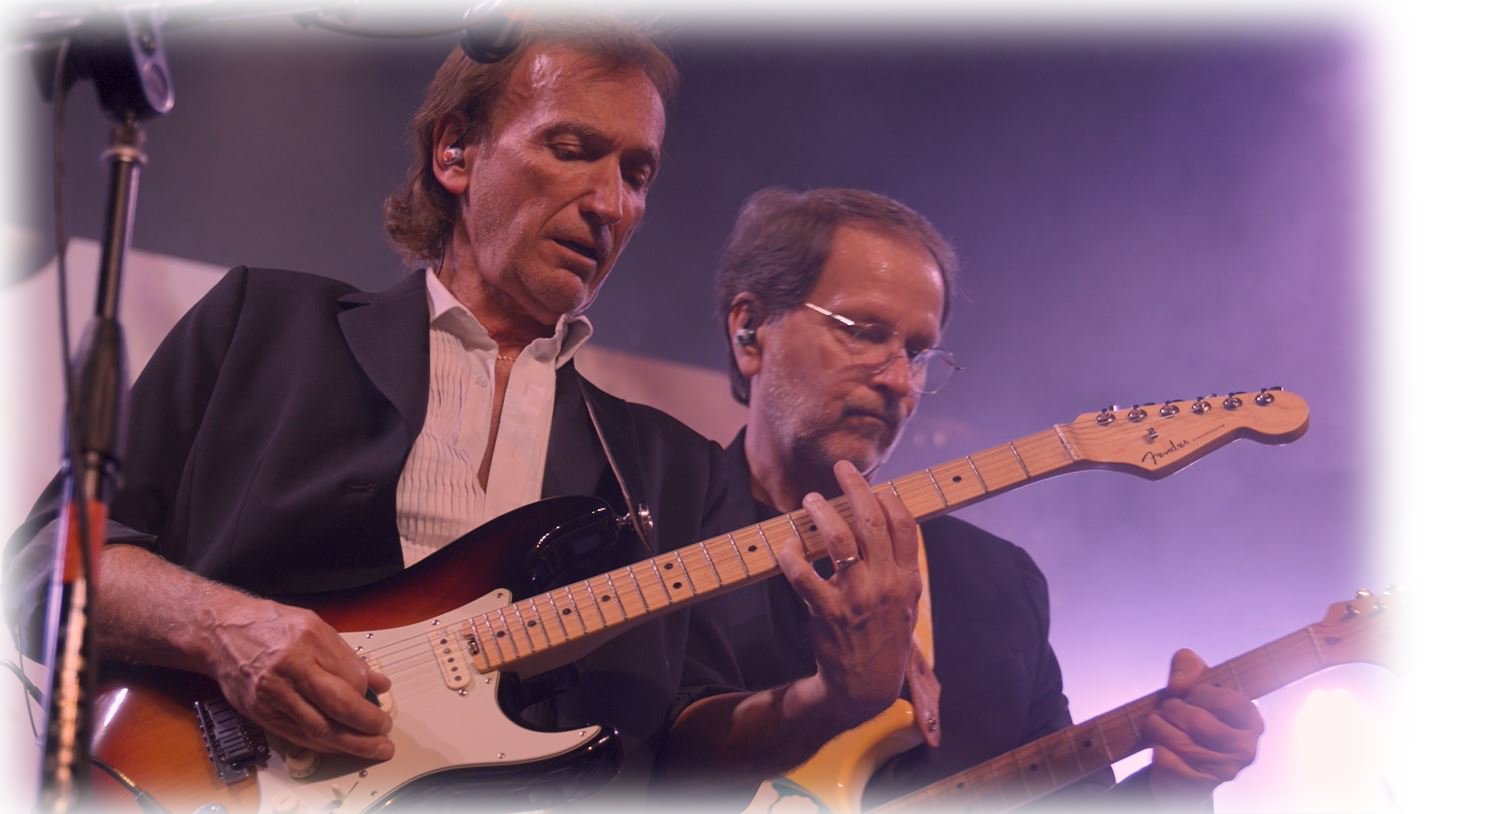
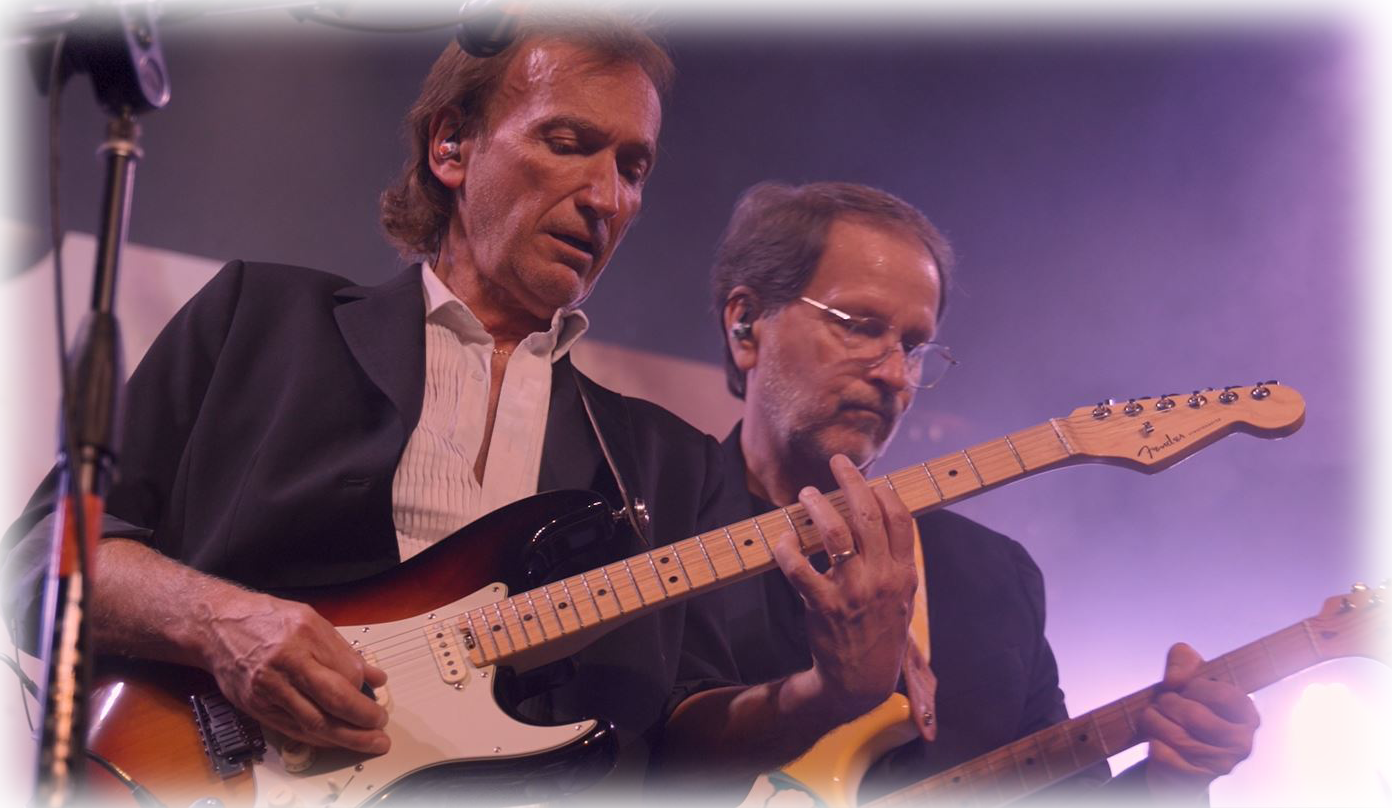
Resize new images on home page for scaling consistency

diff --git a/src/components/About/About.css b/src/components/About/About.css
@@ -13,7 +13,7 @@
 .about-top-img { 
     min-width: 13rem;
     max-width: 60rem;
-    width: 100%;
+    width: 90%;
     height: auto;
     margin: 1rem;
 }
@@ -59,7 +59,7 @@
 .about-bottom-img {
     min-width: 13rem;
     max-width: 60rem;
-    width: 100%;
+    width: 90%;
     height: auto;
     margin: 1rem;
 }
